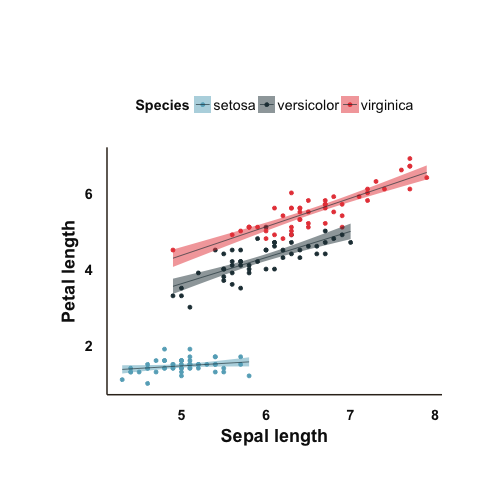
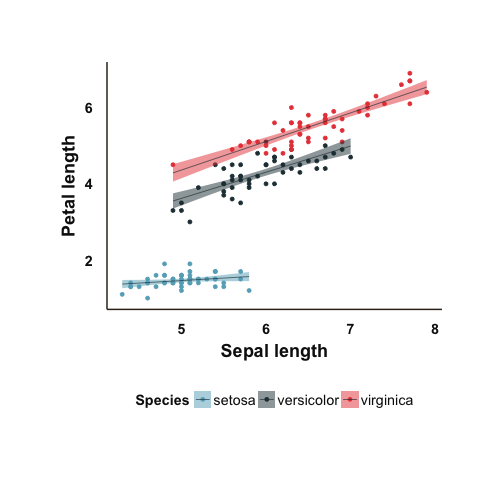
plot

diff --git a/_posts/2016-11-6-visualization.md b/_posts/2016-11-6-visualization.md
@@ -112,7 +112,7 @@ ggthemr(palette = "fresh", layout = "clean", spacing = 3.5,
     line_weight = 0.7, text_size = 18, type = "outer")
 ```
 
-This is how it looks now.
+And this is how the graph looks now.
 
 
 ```r
@@ -122,7 +122,10 @@ p1 +
                 alpha = 0.5, aes(fill= Species)) +
     xlab("Sepal length") +
     ylab("Petal length") +
-    legend_top()
+    legend_bottom()
 ```
 
 <img src="/figure/source/2016-11-6-visualization/unnamed-chunk-10-1.png" title="plot of chunk unnamed-chunk-10" alt="plot of chunk unnamed-chunk-10" style="display: block; margin: auto;" />
+
+
+That's it! 
